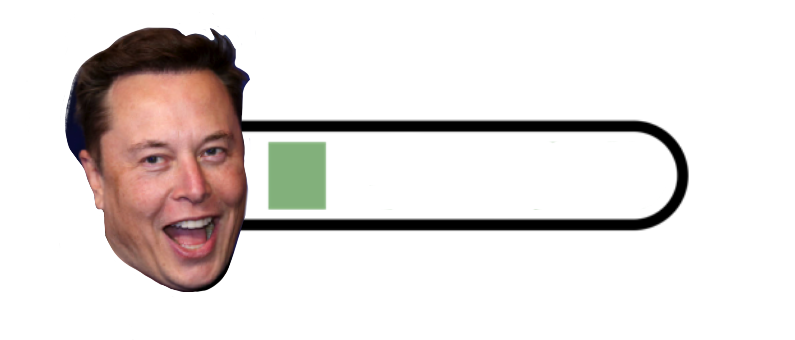
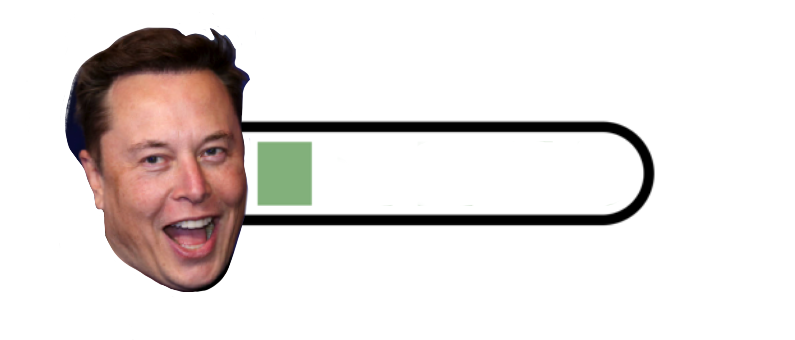
Add all meters

Changed region(s): [[0.3019, 0.3529, 0.8755, 0.6765]]

diff --git a/src/extension/extension.ts b/src/extension/extension.ts
@@ -854,11 +854,11 @@ class PetWebviewContainer implements IPetPanel {
         const errorNum = getNumErrors();
         let i = "0";
         if (errorNum) {
-            i = errorNum < 5 ? "1" : errorNum < 10 ? "2" : "3";
+            i = errorNum < 3 ? "1" : errorNum < 5 ? "2" : errorNum < 10 ? "3" : "4";
         } 
 
         const elonFace = webview.asWebviewUri(
-            vscode.Uri.joinPath(this._extensionUri, "media/meter", `elon0.png`)
+            vscode.Uri.joinPath(this._extensionUri, "media/meter", `elon${i}.png`)
           );
 
         // Local path to main script run in the webview
@@ -936,7 +936,6 @@ class PetWebviewContainer implements IPetPanel {
 				<title>ElonPet</title>
 			</head>
 			<body>
-                <div>placeholder ${numErrors}</div>
                 <section>
                     <img src="${elonFace}">
                 </section>
